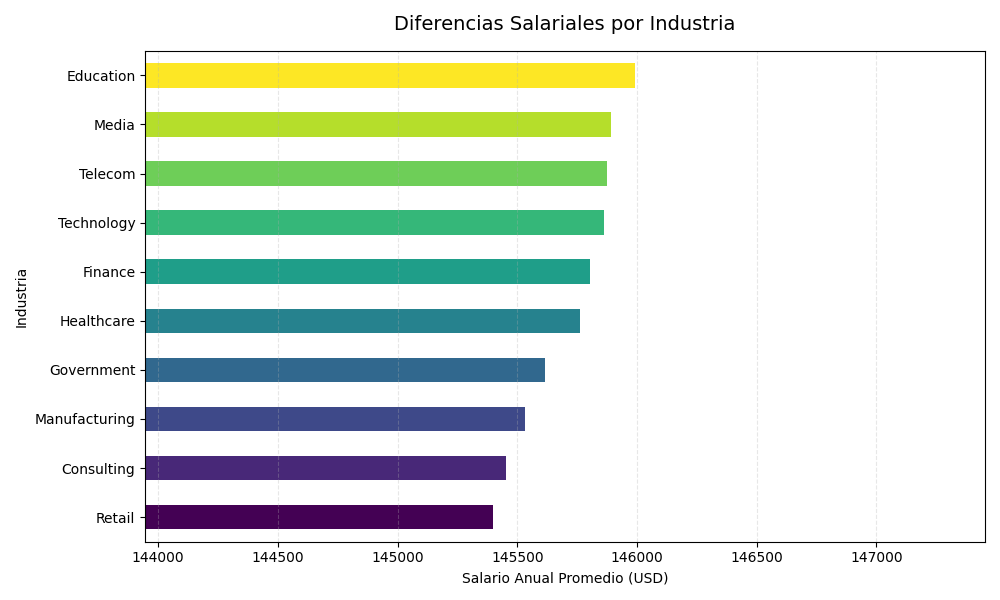
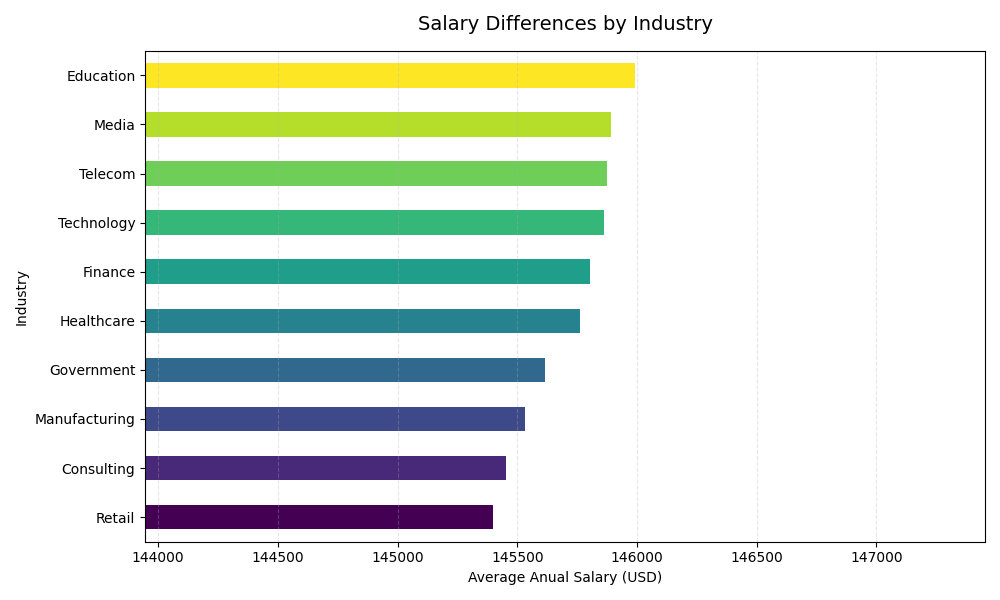
todo english

Changed region(s): [[0.403, 0.03, 0.744, 0.06], [0.465, 0.93, 0.682, 0.99], [0.0, 0.45, 0.031, 0.54]]

diff --git a/templates/simulador.html b/templates/simulador.html
@@ -5,16 +5,16 @@
     <div class="col-md-8">
         <div class="card shadow border-0">
             <div class="card-header bg-primary text-white py-3 text-center">
-                <h3 class="mb-0">Simulador de Salario Esperado</h3>
+                <h3 class="mb-0">Expected Salary Simulator</h3>
             </div>
             <div class="card-body p-4">
                 <form method="POST">
                     <div class="row g-3">
                         <!-- Puesto de Trabajo -->
                         <div class="col-md-6">
-                            <label class="form-label fw-bold">Puesto de Trabajo</label>
+                            <label class="form-label fw-bold">Job title</label>
                             <select name="puesto" class="form-select">
-                                <option value="">Cualquiera</option>
+                                <option value="">Anyone</option>
                                 {% for p in puestos %}
                                     <option value="{{p}}" {% if seleccion.puesto == p %}selected{% endif %}>{{p}}</option>
                                 {% endfor %}
@@ -23,9 +23,9 @@
 
                         <!-- Industria -->
                         <div class="col-md-6">
-                            <label class="form-label fw-bold">Industria</label>
+                            <label class="form-label fw-bold">Industry</label>
                             <select name="industria" class="form-select">
-                                <option value="">Cualquiera</option>
+                                <option value="">Anyone</option>
                                 {% for i in industrias %}
                                     <option value="{{i}}" {% if seleccion.industria == i %}selected{% endif %}>{{i}}</option>
                                 {% endfor %}
@@ -34,16 +34,16 @@
 
                         <!-- Años de Experiencia -->
                         <div class="col-md-4">
-                            <label class="form-label fw-bold">Años de Experiencia</label>
+                            <label class="form-label fw-bold">Experience Years</label>
                             <input type="number" name="experiencia" class="form-control" 
-                                   value="{{ seleccion.experiencia }}" placeholder="Ej: 5">
+                                   value="{{ seleccion.experiencia }}" placeholder="Ex: 5">
                         </div>
 
                         <!-- Nivel de Educación -->
                         <div class="col-md-4">
-                            <label class="form-label fw-bold">Nivel de Educación</label>
+                            <label class="form-label fw-bold">Education Level</label>
                             <select name="educacion" class="form-select">
-                                <option value="">Cualquiera</option>
+                                <option value="">Anyone</option>
                                 {% for e in educacion %}
                                     <option value="{{e}}" {% if seleccion.educacion == e %}selected{% endif %}>{{e}}</option>
                                 {% endfor %}
@@ -52,9 +52,9 @@
 
                         <!-- Tamaño de Empresa -->
                         <div class="col-md-4">
-                            <label class="form-label fw-bold">Tamaño de Empresa</label>
+                            <label class="form-label fw-bold">Company Size</label>
                             <select name="tamano" class="form-select">
-                                <option value="">Cualquiera</option>
+                                <option value="">Anyone</option>
                                 {% for t in tamanos %}
                                     <option value="{{t}}" {% if seleccion.tamano == t %}selected{% endif %}>{{t}}</option>
                                 {% endfor %}
@@ -63,9 +63,9 @@
 
                         <!-- Ubicación -->
                         <div class="col-md-6">
-                            <label class="form-label fw-bold">Ubicación</label>
+                            <label class="form-label fw-bold">Location</label>
                             <select name="ubicacion" class="form-select">
-                                <option value="">Cualquiera</option>
+                                <option value="">Anyone</option>
                                 {% for u in ubicaciones %}
                                     <option value="{{u}}" {% if seleccion.ubicacion == u %}selected{% endif %}>{{u}}</option>
                                 {% endfor %}
@@ -74,27 +74,27 @@
 
                         <!-- Remoto -->
                         <div class="col-md-6">
-                            <label class="form-label fw-bold">¿Es Remoto?</label>
+                            <label class="form-label fw-bold">¿Is Remote?</label>
                             <select name="remoto" class="form-select">
-                                <option value="">No importa</option>
-                                <option value="Yes" {% if seleccion.remoto == 'Yes' %}selected{% endif %}>Sí, es remoto</option>
-                                <option value="No" {% if seleccion.remoto == 'No' %}selected{% endif %}>No, es presencial</option>
+                                <option value="">Does not matter</option>
+                                <option value="Yes" {% if seleccion.remoto == 'Yes' %}selected{% endif %}>Yes, is remote</option>
+                                <option value="No" {% if seleccion.remoto == 'No' %}selected{% endif %}>No, is presential</option>
                             </select>
                         </div>
                     </div>
-                    <button type="submit" class="btn btn-primary w-100 mt-4 py-2 fw-bold shadow-sm">Calcular Salario Estimado</button>
+                    <button type="submit" class="btn btn-primary w-100 mt-4 py-2 fw-bold shadow-sm">Calculate Expected Salary</button>
                 </form>
 
                 {% if resultado %}
                 <div class="mt-5 p-4 bg-light rounded-3 text-center border">
-                    <h5 class="text-muted text-uppercase small">Resultado de la Simulación</h5>
+                    <h5 class="text-muted text-uppercase small">Simulation Result</h5>
                     <p class="text-muted small">
-                        <i class="bi bi-info-circle"></i> Análisis basado en <strong>{{ cantidad_coincidencias }}</strong> perfiles similares encontrados.
+                        <i class="bi bi-info-circle"></i> Analysis based on <strong>{{ cantidad_coincidencias }}</strong> similar found profiles.
                     </p>
                     
                     {% if resultado is number %}
                         <h2 class="display-4 fw-bold text-success">${{ "{:,.2f}".format(resultado) }}</h2>
-                        <p class="mb-0 mt-2 text-muted">Promedio anual estimado según los filtros aplicados.</p>
+                        <p class="mb-0 mt-2 text-muted">Estimated annual average based on the filters applied.</p>
                     {% else %}
                         <h4 class="text-danger">{{ resultado }}</h4>
                     {% endif %}

diff --git a/templates/tabla.html b/templates/tabla.html
@@ -5,9 +5,9 @@
 
     <div class="container mt-5">
         <div class="d-flex justify-content-between align-items-center mb-4">
-            <h1>Base de Datos de Empleos</h1>
+            <h1>Data Base of Employees</h1>
             <a href="/" class="btn btn-secondary shadow-sm">
-                <i class="bi bi-house-door"></i> Volver al Inicio
+                <i class="bi bi-house-door"></i> Back to Home
             </a>
         </div>
 
@@ -16,9 +16,9 @@
             <div class="card-body">
                 <form action="/tabla" method="GET" class="row g-3 align-items-end">
                     <div class="col-md-8">
-                        <label class="form-label fw-bold text-muted">Seleccionar Puesto de Trabajo</label>
+                        <label class="form-label fw-bold text-muted">Select Job Title</label>
                         <select name="query" class="form-select shadow-sm">
-                            <option value="">-- Ver todos los puestos (Top 100) --</option>
+                            <option value="">-- View all the job titles (Top 100) --</option>
                             {% for puesto in puestos %}
                                 <option value="{{ puesto }}" {% if busqueda == puesto %}selected{% endif %}>
                                     {{ puesto }}
@@ -29,11 +29,11 @@
                     <div class="col-md-4">
                         <div class="d-grid gap-2 d-md-flex">
                             <button class="btn btn-primary flex-grow-1 fw-bold shadow-sm" type="submit">
-                                <i class="bi bi-filter"></i> Filtrar Datos
+                                <i class="bi bi-filter"></i> Filter Data
                             </button>
                             {% if busqueda %}
                                 <a href="/tabla" class="btn btn-outline-secondary">
-                                    Limpiar
+                                    Clean
                                 </a>
                             {% endif %}
                         </div>
@@ -44,12 +44,12 @@
 
         <!-- Sección de Gráfico -->
         <div class="container px-0">
-            <h2 class="mt-5 mb-3">Gráfico de la Búsqueda</h2>
+            <h2 class="mt-5 mb-3">Search Graphic</h2>
             <div class="card shadow-sm border-0 mb-5">
                 <div class="card-body">
                     <div class="alert alert-info border-0 shadow-sm mb-3" role="alert">
                         <i class="bi bi-info-circle-fill"></i> 
-                        <strong>Análisis interactivo:</strong> Haz clic en los elementos de la leyenda para filtrar los datos por nivel educativo.
+                        <strong>Interactive Analysis:</strong> Click on the legend items to filter the data by educational level.
                     </div>
                     {{ plot_div | safe }}
                 </div>
@@ -61,12 +61,12 @@
             <table class="table table-hover align-middle">
                 <thead class="table-dark">
                     <tr>
-                        <th>Puesto</th>
-                        <th>Industria</th>
-                        <th>Educación</th> 
-                        <th>Experiencia (Años)</th>
-                        <th>Salario (USD)</th>
-                        <th>Ubicación</th>
+                        <th>Position</th>
+                        <th>Industry</th>
+                        <th>Education</th> 
+                        <th>Experience (Years)</th>
+                        <th>Salary (USD)</th>
+                        <th>Location</th>
                     </tr>
                 </thead>
                 <tbody>

diff --git a/templates/tp3.html b/templates/tp3.html
@@ -4,9 +4,9 @@
 <body>
     <div class="p-5 mb-4 bg-light rounded-3 border">
         <div class="container-fluid py-5">
-            <h1 class="display-5 fw-bold">Predicción y Análisis de Salarios</h1>
-            <p class="col-md-8 fs-4">Explorá las tendencias del mercado laboral tecnológico, analizá sueldos por industria y descubrí cómo impacta la experiencia en tu carrera.</p>
-            <a href="/tabla" class="btn btn-primary btn-lg">Explorar Datos</a>
+            <h1 class="display-5 fw-bold">Salary Prediction and Analysis</h1>
+            <p class="col-md-8 fs-4">Explore the trends in the technology job market, analyze salaries by industry, and discover how experience impacts your career.</p>
+            <a href="/tabla" class="btn btn-primary btn-lg">Explore Data</a>
         </div>
     </div>
 
@@ -14,7 +14,7 @@
         <div class="col-md-4">
             <div class="card border-primary shadow-sm">
                 <div class="card-body">
-                    <h5 class="card-title text-muted">Total de Registros</h5>
+                    <h5 class="card-title text-muted">Total Number of Records</h5>
                     <h2 class="display-6 fw-bold">{{ total }}</h2>
                 </div>
             </div>
@@ -22,7 +22,7 @@
         <div class="col-md-4">
             <div class="card border-success shadow-sm">
                 <div class="card-body">
-                    <h5 class="card-title text-muted">Salario Promedio</h5>
+                    <h5 class="card-title text-muted">Average Salary</h5>
                     <h2 class="display-6 fw-bold">${{ "{:,.2f}".format(promedio) }}</h2>
                 </div>
             </div>
@@ -30,7 +30,7 @@
         <div class="col-md-4">
             <div class="card border-info shadow-sm">
                 <div class="card-body">
-                    <h5 class="card-title text-muted">Industrias Analizadas</h5>
+                    <h5 class="card-title text-muted">Analized Industries</h5>
                     <h2 class="display-6 fw-bold">12</h2> </div>
             </div>
         </div>
@@ -40,11 +40,11 @@
         <div class="col-12">
             <div class="card shadow">
                 <div class="card-header bg-dark text-white">
-                    <h5 class="mb-0">Distribución Salarial por Industria</h5>
+                    <h5 class="mb-0">Salary Distribution by Industry</h5>
                 </div>
                 <div class="card-body text-center">
                     <img src="{{ url_for('static', filename='charts/' + imagen) }}" class="img-fluid rounded" alt="Gráfico de salarios">
-                    <p class="text-muted mt-3">Este gráfico muestra la relación entre los sectores económicos y la remuneración anual promedio.</p>
+                    <p class="text-muted mt-3">This chart shows the relationship between economic sectors and average annual remuneration.</p>
                 </div>
             </div>
         </div>

diff --git a/templates/base.html b/templates/base.html
@@ -17,9 +17,9 @@
                 SalaryApp
             </a>
             <div class="navbar-nav">
-                <a class="nav-link" href="/">Inicio</a>
-                <a class="nav-link" href="/tabla">Ver Datos</a>
-                <a class="nav-link fw-bold text-info" href="/simuladores">Simulador</a> </div>
+                <a class="nav-link" href="/">Home</a>
+                <a class="nav-link" href="/tabla">View Data</a>
+                <a class="nav-link fw-bold text-info" href="/simuladores">Simulator</a> </div>
             </div>
         </div>
     </nav>

diff --git a/app.py b/app.py
@@ -64,9 +64,9 @@ def index():
     max_promedio = data_grafico.max()
     plt.xlim(min_promedio * 0.99, max_promedio * 1.01)
 
-    plt.title('Diferencias Salariales por Industria', fontsize=14, pad=15)
-    plt.xlabel('Salario Anual Promedio (USD)')
-    plt.ylabel('Industria')
+    plt.title('Salary Differences by Industry', fontsize=14, pad=15)
+    plt.xlabel('Average Anual Salary (USD)')
+    plt.ylabel('Industry')
     plt.grid(axis='x', linestyle='--', alpha=0.3)
     
     plt.tight_layout()
@@ -111,25 +111,25 @@ def tabla():
         points=False, 
         notched=True, 
         labels={
-            "experience_years": "Años de Experiencia",
-            "salary": "Salario Anual (USD)"
+            "experience_years": "Experience Years",
+            "salary": "Anual Salary (USD)"
         }
     )
 
     #Etiquetas en español y formato moneda ($)
-    fig.update_traces(
-        hovertemplate="""
-        <b>%{x} Años de Exp.</b><br><br>
-        Máximo: %{max:$,.0f}<br>
-        Prom. Máximo (Q3): %{q3:$,.0f}<br>
-        Mediana: %{median:$,.0f}<br>
-        Prom. Mínimo (Q1): %{q1:$,.0f}<br>
-        Mínimo: %{min:$,.0f}
-        <extra></extra>
-        """
-    )
+    #fig.update_traces(
+    #    hovertemplate="""
+    #    <b>%{x} Años de Exp.</b><br><br>
+    #    Máximo: %{max:$,.0f}<br>
+    #    Prom. Máximo (Q3): %{q3:$,.0f}<br>
+    #    Mediana: %{median:$,.0f}<br>
+    #    Prom. Mínimo (Q1): %{q1:$,.0f}<br>
+    #    Mínimo: %{min:$,.0f}
+    #    <extra></extra>
+    #    """
+    #)
 
-    fig.update_layout(showlegend=True, legend_title_text="Niveles de Educación")
+    fig.update_layout(showlegend=True, legend_title_text="Education Levels")
     fig.for_each_trace(lambda t: t.update(visible=True if t.name == "Bachelor" else "legendonly"))
     
     graph_html = fig.to_html(full_html=False)
